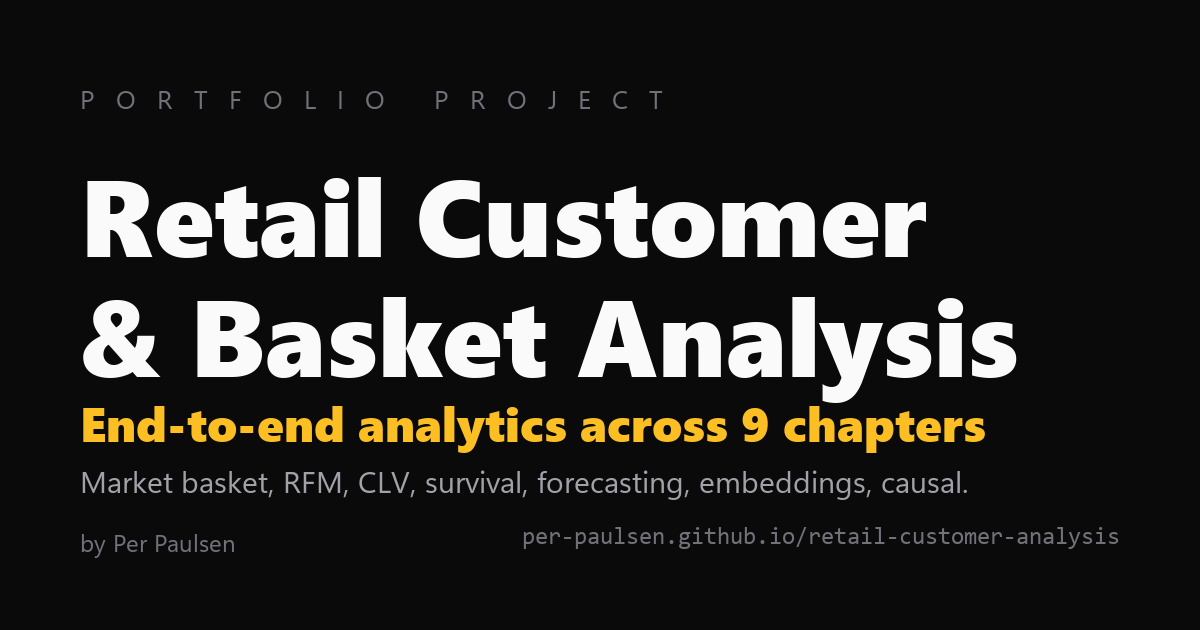
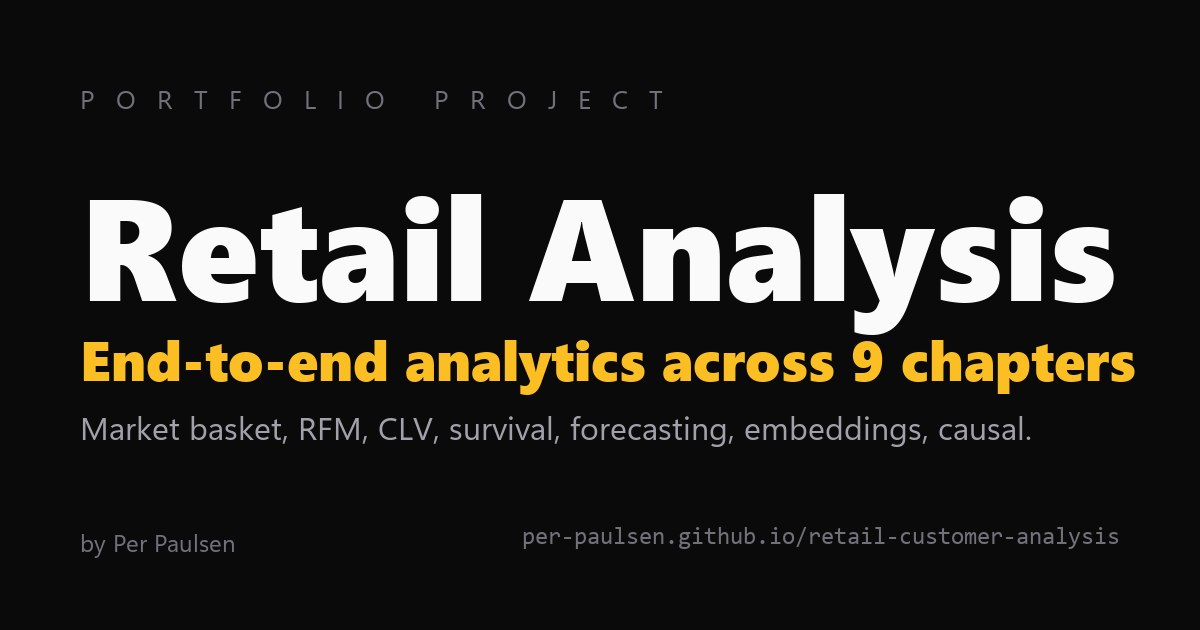
fix(og-image): shorten title to "Retail Analysis", single line
The double-line "Retail Customer & Basket Analysis" made the OG-image
feel cramped compared to the single-word Expliq / APIQ titles. Site's
real title stays the same; only the hero image is shortened.

Title font bumped from 108pt to 144pt to fill the freed space.

Changed region(s): [[0.0617, 0.2714, 0.9558, 0.7238], [0.0617, 0.754, 0.8017, 0.7841]]

diff --git a/scripts/make_og_image.py b/scripts/make_og_image.py
@@ -46,33 +46,29 @@ def main() -> None:
     pad = 80
 
     eyebrow = "PORTFOLIO PROJECT"
-    title_line_1 = "Retail Customer"
-    title_line_2 = "& Basket Analysis"
+    title = "Retail Analysis"
     subline = "End-to-end analytics across 9 chapters"
     desc = "Market basket, RFM, CLV, survival, forecasting, embeddings, causal."
     by = "by Per Paulsen"
     site = "per-paulsen.github.io/retail-customer-analysis"
 
     f_eyebrow = load_font(26, bold=False)
-    f_title = load_font(108, bold=True)
-    f_sub = load_font(48, bold=True)
-    f_desc = load_font(30, bold=False)
+    f_title = load_font(144, bold=True)
+    f_sub = load_font(56, bold=True)
+    f_desc = load_font(32, bold=False)
     f_footer = load_font(24, bold=False)
     f_mono = mono_font(24)
 
     y = pad
-    # eyebrow with letter spacing (manual: insert thin space)
     spaced = "   ".join(list(eyebrow))
     draw.text((pad, y), spaced, font=f_eyebrow, fill=DIM)
-    y += 60
+    y += 65
 
-    draw.text((pad, y), title_line_1, font=f_title, fill=FG)
-    y += 120
-    draw.text((pad, y), title_line_2, font=f_title, fill=FG)
-    y += 130
+    draw.text((pad, y), title, font=f_title, fill=FG)
+    y += 175
 
     draw.text((pad, y), subline, font=f_sub, fill=ACCENT)
-    y += 70
+    y += 85
 
     draw.text((pad, y), desc, font=f_desc, fill=MUTED)
 
